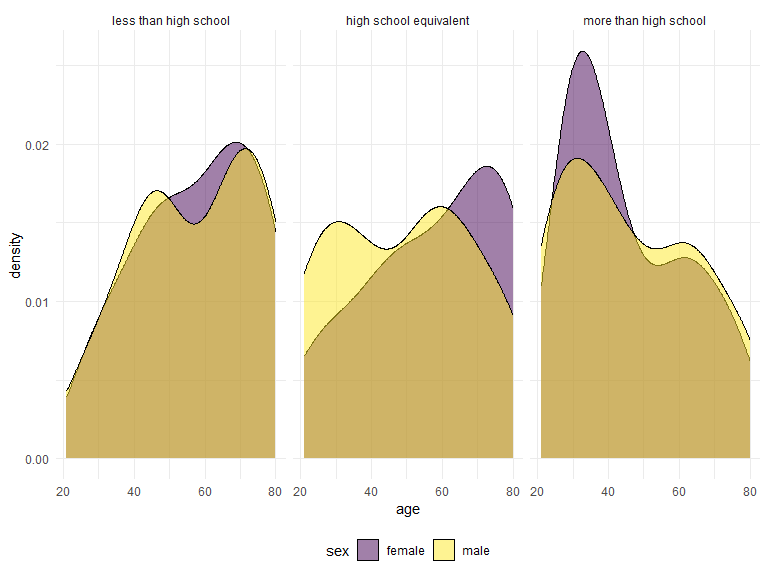
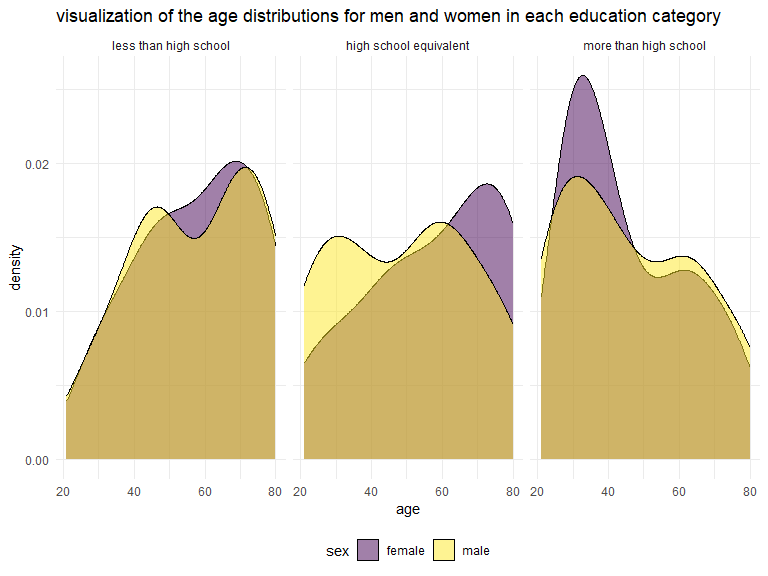
add comments; changed order of response in problem 2; make code for the boxplot more concise in problem 2

diff --git a/P8105_hw3_rl3328.md b/P8105_hw3_rl3328.md
@@ -121,9 +121,6 @@ instacart |>
   knitr::kable(digits = 2)
 ```
 
-    ## `summarise()` has grouped output by 'product_name'. You can override using the
-    ## `.groups` argument.
-
 | product_name     |     0 |     1 |     2 |     3 |     4 |     5 |     6 |
 |:-----------------|------:|------:|------:|------:|------:|------:|------:|
 | Coffee Ice Cream | 13.77 | 14.32 | 15.38 | 15.32 | 15.22 | 12.26 | 13.83 |
@@ -172,11 +169,11 @@ b = brfss_smart2010 |>filter(year == 2002) |> group_by(locationabbr) |> summaris
 b1 = b |> filter((n/5) >= 7) 
 ```
 
-\*\* I found that every location(with county) appears 5 times per year
-in this dataset. So, I can calculate how many locations a state was
-observed by knowing the times each state appears per year. \*\* In 2002,
-6 states were observed at 7 or more locations, they are PA, MA, NJ, CT,
-FL, NC.
+- I found that every location(with county) appears 5 times per year in
+  this dataset. So, I can calculate how many locations a state was
+  observed by knowing the times each state appears per year.
+- In 2002, 6 states were observed at 7 or more locations, they are PA,
+  MA, NJ, CT, FL, NC.
 
 ``` r
 c = brfss_smart2010 |>filter(year == 2010) |> group_by(locationabbr,locationdesc) |> summarise(n=n()) |>
@@ -192,8 +189,8 @@ d = brfss_smart2010 |>filter(year == 2010) |> group_by(locationabbr) |> summaris
 d1 = d |> filter((n/5) >= 7)
 ```
 
-\*\* Similarly, in 2010, 14 states were observed at 7 or more locations,
-they are FL, NJ, TX, CA, MD, NC, NE, WA, MA, NY, OH, CO, PA, SC.
+- Similarly, in 2010, 14 states were observed at 7 or more locations,
+  they are FL, NJ, TX, CA, MD, NC, NE, WA, MA, NY, OH, CO, PA, SC.
 
 2.  Construct a dataset that is limited to Excellent responses, and
     contains, year, state, and a variable that averages the data_value
@@ -207,12 +204,10 @@ brfss = brfss_smart2010 |>
   filter(response == "Excellent") |>
   group_by(year,locationabbr) |>
   summarise(data_value_within_state = mean(data_value,rm.na = T)) 
-```
 
-    ## `summarise()` has grouped output by 'year'. You can override using the
-    ## `.groups` argument.
 
-``` r
+
+
 gp = brfss |>
   ggplot(aes(x = year, y = data_value_within_state, color= locationabbr, group = locationabbr)) + geom_line()+
   labs(title = "Average data value within each state across years from 2002 to 2010")
@@ -240,9 +235,6 @@ brfss_smart2010 |>
     axis.text.x = element_text(angle = 60, hjust = 1))
 ```
 
-    ## `summarise()` has grouped output by 'year', 'response'. You can override using
-    ## the `.groups` argument.
-
 <img src="P8105_hw3_rl3328_files/figure-gfm/unnamed-chunk-10-1.png" width="90%" />
 
 # Problem 3
@@ -267,32 +259,11 @@ demo = read_csv("./hw3_data/nhanes_covar.csv") |>
     education = recode(education, "1" = "less than high school", "2" = "high school equivalent", "3" = "more than high school"),
     education = forcats::fct_relevel(education, c("less than high school","high school equivalent","more than high school")),
     age = as.numeric(age))
-```
 
-    ## New names:
-    ## Rows: 254 Columns: 5
-    ## ── Column specification
-    ## ──────────────────────────────────────────────────────── Delimiter: "," chr
-    ## (5): ...1, 1 = male, ...3, ...4, 1 = Less than high school
-    ## ℹ Use `spec()` to retrieve the full column specification for this data. ℹ
-    ## Specify the column types or set `show_col_types = FALSE` to quiet this message.
-    ## • `` -> `...1`
-    ## • `` -> `...3`
-    ## • `` -> `...4`
-
-``` r
 accel = read_csv("./hw3_data/nhanes_accel.csv") |>
   janitor::clean_names()|>
   mutate(seqn = as.character(seqn))
 ```
-
-    ## Rows: 250 Columns: 1441
-    ## ── Column specification ────────────────────────────────────────────────────────
-    ## Delimiter: ","
-    ## dbl (1441): SEQN, min1, min2, min3, min4, min5, min6, min7, min8, min9, min1...
-    ## 
-    ## ℹ Use `spec()` to retrieve the full column specification for this data.
-    ## ℹ Specify the column types or set `show_col_types = FALSE` to quiet this message.
 
 2.  Produce a reader-friendly table for the number of men and women in
     each education category, and create a visualization of the age
@@ -312,32 +283,33 @@ table(demo$sex,demo$education) |>
 ``` r
 demo |>
   ggplot(aes(x = age, fill = sex)) +
-  geom_density(alpha=0.5) +
-  facet_grid(. ~ education)
+  geom_density(alpha = 0.5) +
+  facet_grid(. ~ education) +
+  labs(title = "visualization of the age distributions for men and women in each education category")
 ```
 
 <img src="P8105_hw3_rl3328_files/figure-gfm/unnamed-chunk-12-1.png" width="90%" />
 
 ``` r
 demo |>
-  ggplot(aes(x=age, y=education, color=sex))+
-  geom_density_ridges(scale = 0.6,alpha=.5)
+  ggplot(aes(x = age, y = education, color = sex)) +
+  geom_density_ridges(scale = 0.6,alpha=.5) +
+  labs(title = "visualization of the age distributions for men and women in each education category")
 ```
 
-    ## Picking joint bandwidth of 8.03
-
 <img src="P8105_hw3_rl3328_files/figure-gfm/unnamed-chunk-12-2.png" width="90%" />
-\* For the table: Compared to males, female participants have lower
-proportion of high school equivalent education; People with more than
-high school education constitutes about half of all participants in this
-study. \* For age distribution plot: Overall, age distribution is more
-sparse in males than females. Male participants have have two peak in
-age density plot across all educational levels whereas female only have
-two peaks in “more than high school” education level. Males have similar
-age distribution across different educational levels. Female have more
-elder participants(aged 75 or more) among “less than high school & high
-school equivalent” levels but have more younger participants(about 30)
-in “more than high school” education level.
+\* I used two methods to visualize … \* For the table: Compared to
+males, female participants have lower proportion of high school
+equivalent education; People with more than high school education
+constitutes about half of all participants in this study. \* For age
+distribution plot: Overall, age distribution is more sparse in males
+than females. Male participants have have two peak in age density plot
+across all educational levels whereas female only have two peaks in
+“more than high school” education level. Males have similar age
+distribution across different educational levels. Female have more elder
+participants(aged 75 or more) among “less than high school & high school
+equivalent” levels but have more younger participants(about 30) in “more
+than high school” education level.
 
 3.  Traditional analyses of accelerometer data focus on the total
     activity over the day. Using your tidied dataset, aggregate across
@@ -348,26 +320,24 @@ in “more than high school” education level.
     differences. Comment on your plot.
 
 ``` r
+#convert to long format
 accel_long =  accel |>
   pivot_longer(
     -seqn,
     names_to = "time",
     values_to = "value"
   ) 
-
+# merge
 demo_accel = left_join(demo, accel_long, by = "seqn")
-
+# plot
 demo_accel |>
   group_by(seqn,age,sex,education) |>
   summarise(total_act = sum(value)) |>
-  ggplot(aes(x= age, y = total_act, color = sex)) +
+  ggplot(aes(x = age, y = total_act, color = sex)) +
   geom_smooth(aes(group =sex), se = FALSE) +
-  facet_grid(. ~ education)
+  facet_grid(. ~ education) + 
+  labs(title = "total activity against age for men and women in each education category")
 ```
-
-    ## `summarise()` has grouped output by 'seqn', 'age', 'sex'. You can override
-    ## using the `.groups` argument.
-    ## `geom_smooth()` using method = 'loess' and formula = 'y ~ x'
 
 <img src="P8105_hw3_rl3328_files/figure-gfm/unnamed-chunk-13-1.png" width="90%" />
 \* In “less than high school” level,females have higher total activity
@@ -390,10 +360,9 @@ demo_accel |>
   ggplot(aes(x = time, y = value, group=seqn, color = sex)) +
   geom_line() +
   geom_smooth(aes(group =sex), se = FALSE) +
-  facet_grid(. ~ education)
+  facet_grid(. ~ education) +
+  labs(title = "per-minute 24-hour activity for men and women in each education category")
 ```
-
-    ## `geom_smooth()` using method = 'gam' and formula = 'y ~ s(x, bs = "cs")'
 
 <img src="P8105_hw3_rl3328_files/figure-gfm/unnamed-chunk-14-1.png" width="90%" />
 
